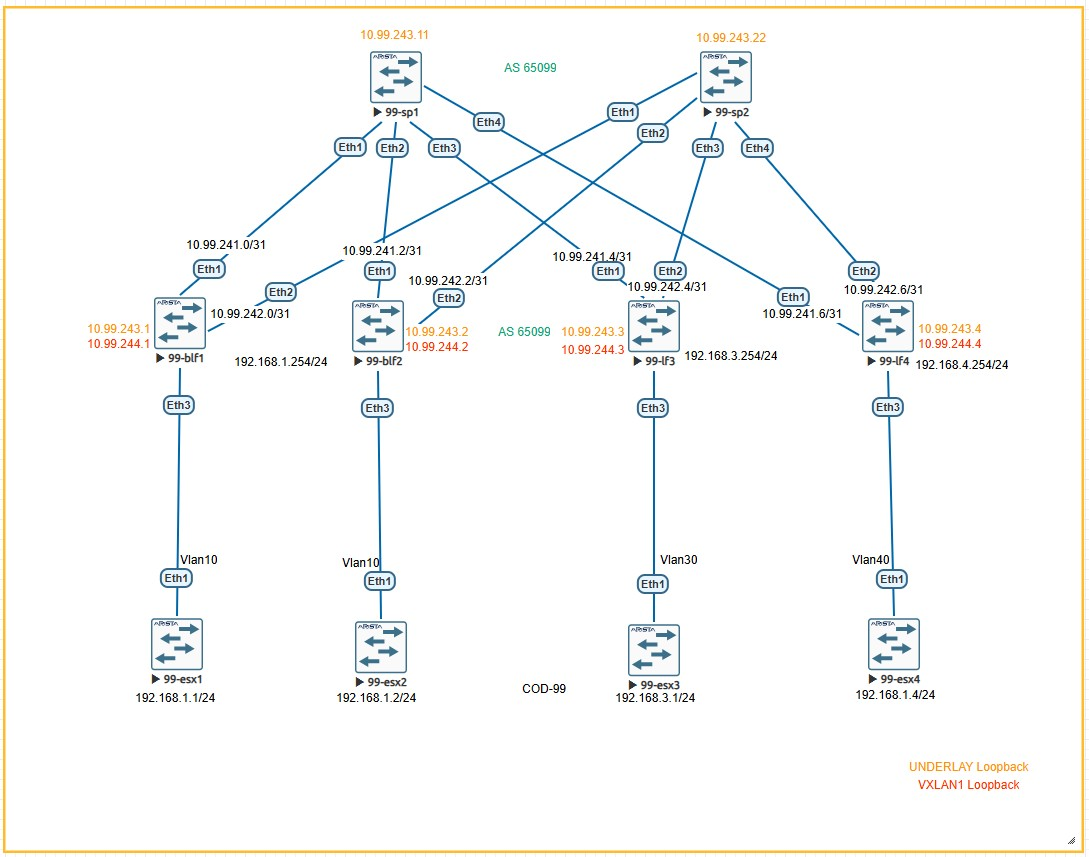
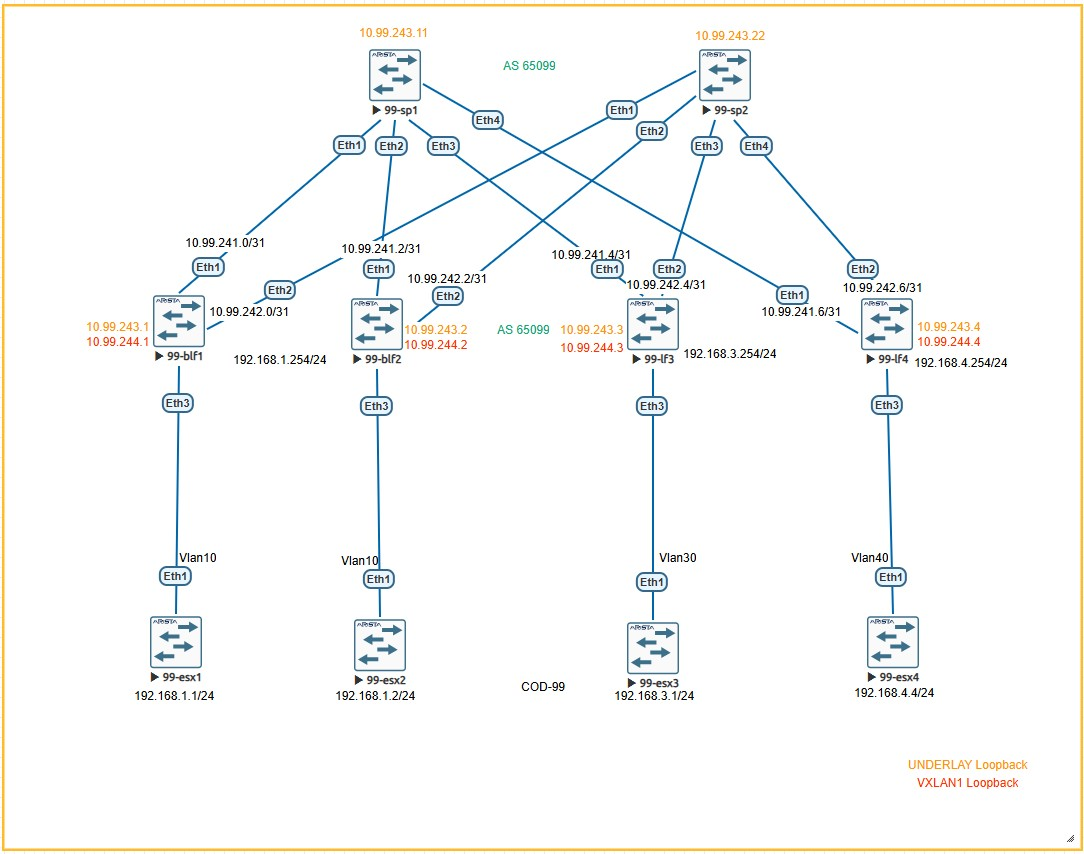
1

diff --git a/labs/lab_06(VxLAN. L3 VNI)/README.md b/labs/lab_06(VxLAN. L3 VNI)/README.md
@@ -68,13 +68,9 @@
 | ESXi Device | Физические порты (Trunk) | Виртуальные интерфейсы (SVI)                     | IP Address/Маска   | Gateway         |
 |-------------|--------------------------|------------------------------------------------|-------------------|-----------------|
 | 99-esx1     | Eth1 → 99-blf1 Eth3      | Vlan10 (SVI для VLAN10)                        | 192.168.1.1/24    | 192.168.1.254   |
-|             | Eth2 → 99-lf4 Eth4       | Vlan20 (SVI для VLAN20)                        | 192.168.2.1/24    | 192.168.2.254   |
 | 99-esx2     | Eth1 → 99-blf2 Eth3      | Vlan10 (SVI для VLAN10)                        | 192.168.1.2/24    | 192.168.1.254   |
-|             | Eth2 → 99-lf3 Eth4       | Vlan20 (SVI для VLAN20)                        | 192.168.2.2/24    | 192.168.2.254   |
-| 99-esx3     | Eth1 → 99-lf3 Eth3       | Vlan10 (SVI для VLAN10)                        | 192.168.1.3/24    | 192.168.1.254   |
-|             | Eth2 → 99-blf2 Eth4      | Vlan20 (SVI для VLAN20)                        | 192.168.2.3/24    | 192.168.2.254   |
-| 99-esx4     | Eth1 → 99-lf4 Eth3       | Vlan10 (SVI для VLAN10)                        | 192.168.1.4/24    | 192.168.1.254   |
-|             | Eth2 → 99-blf1 Eth4      | Vlan20 (SVI для VLAN20)                        | 192.168.2.4/24    | 192.168.2.254   |
+| 99-esx3     | Eth1 → 99-lf3 Eth3       | Vlan30 (SVI для VLAN10)                        | 192.168.3.1/24    | 192.168.3.254   |
+| 99-esx4     | Eth1 → 99-lf4 Eth3       | Vlan40 (SVI для VLAN10)                        | 192.168.4.1/24    | 192.168.4.254   |
 
 ---
 
